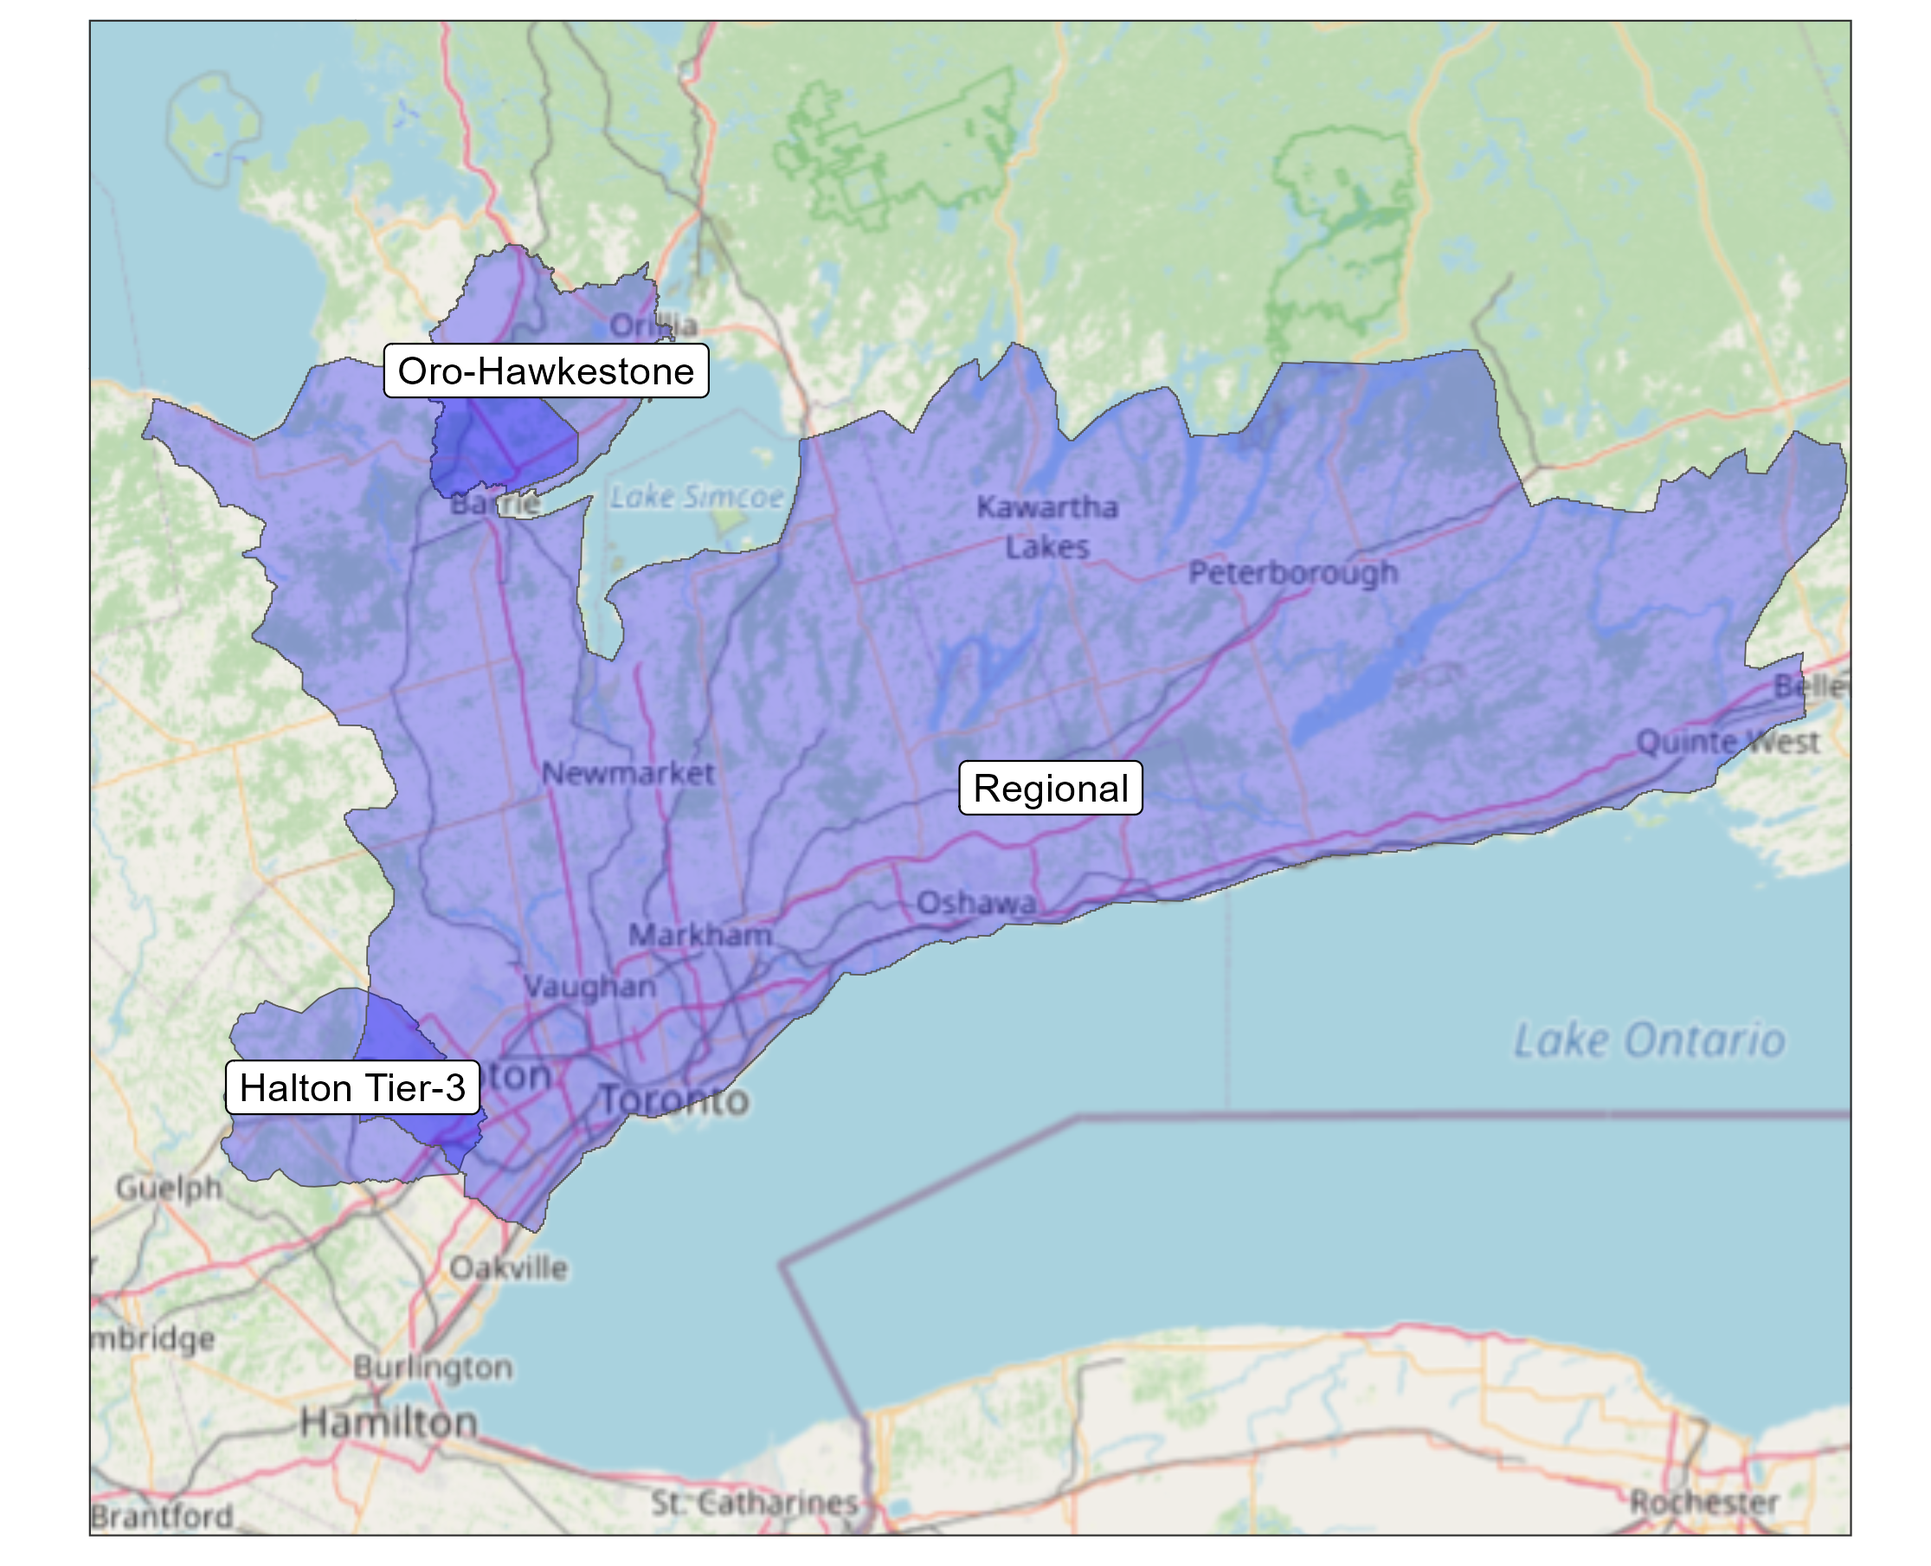
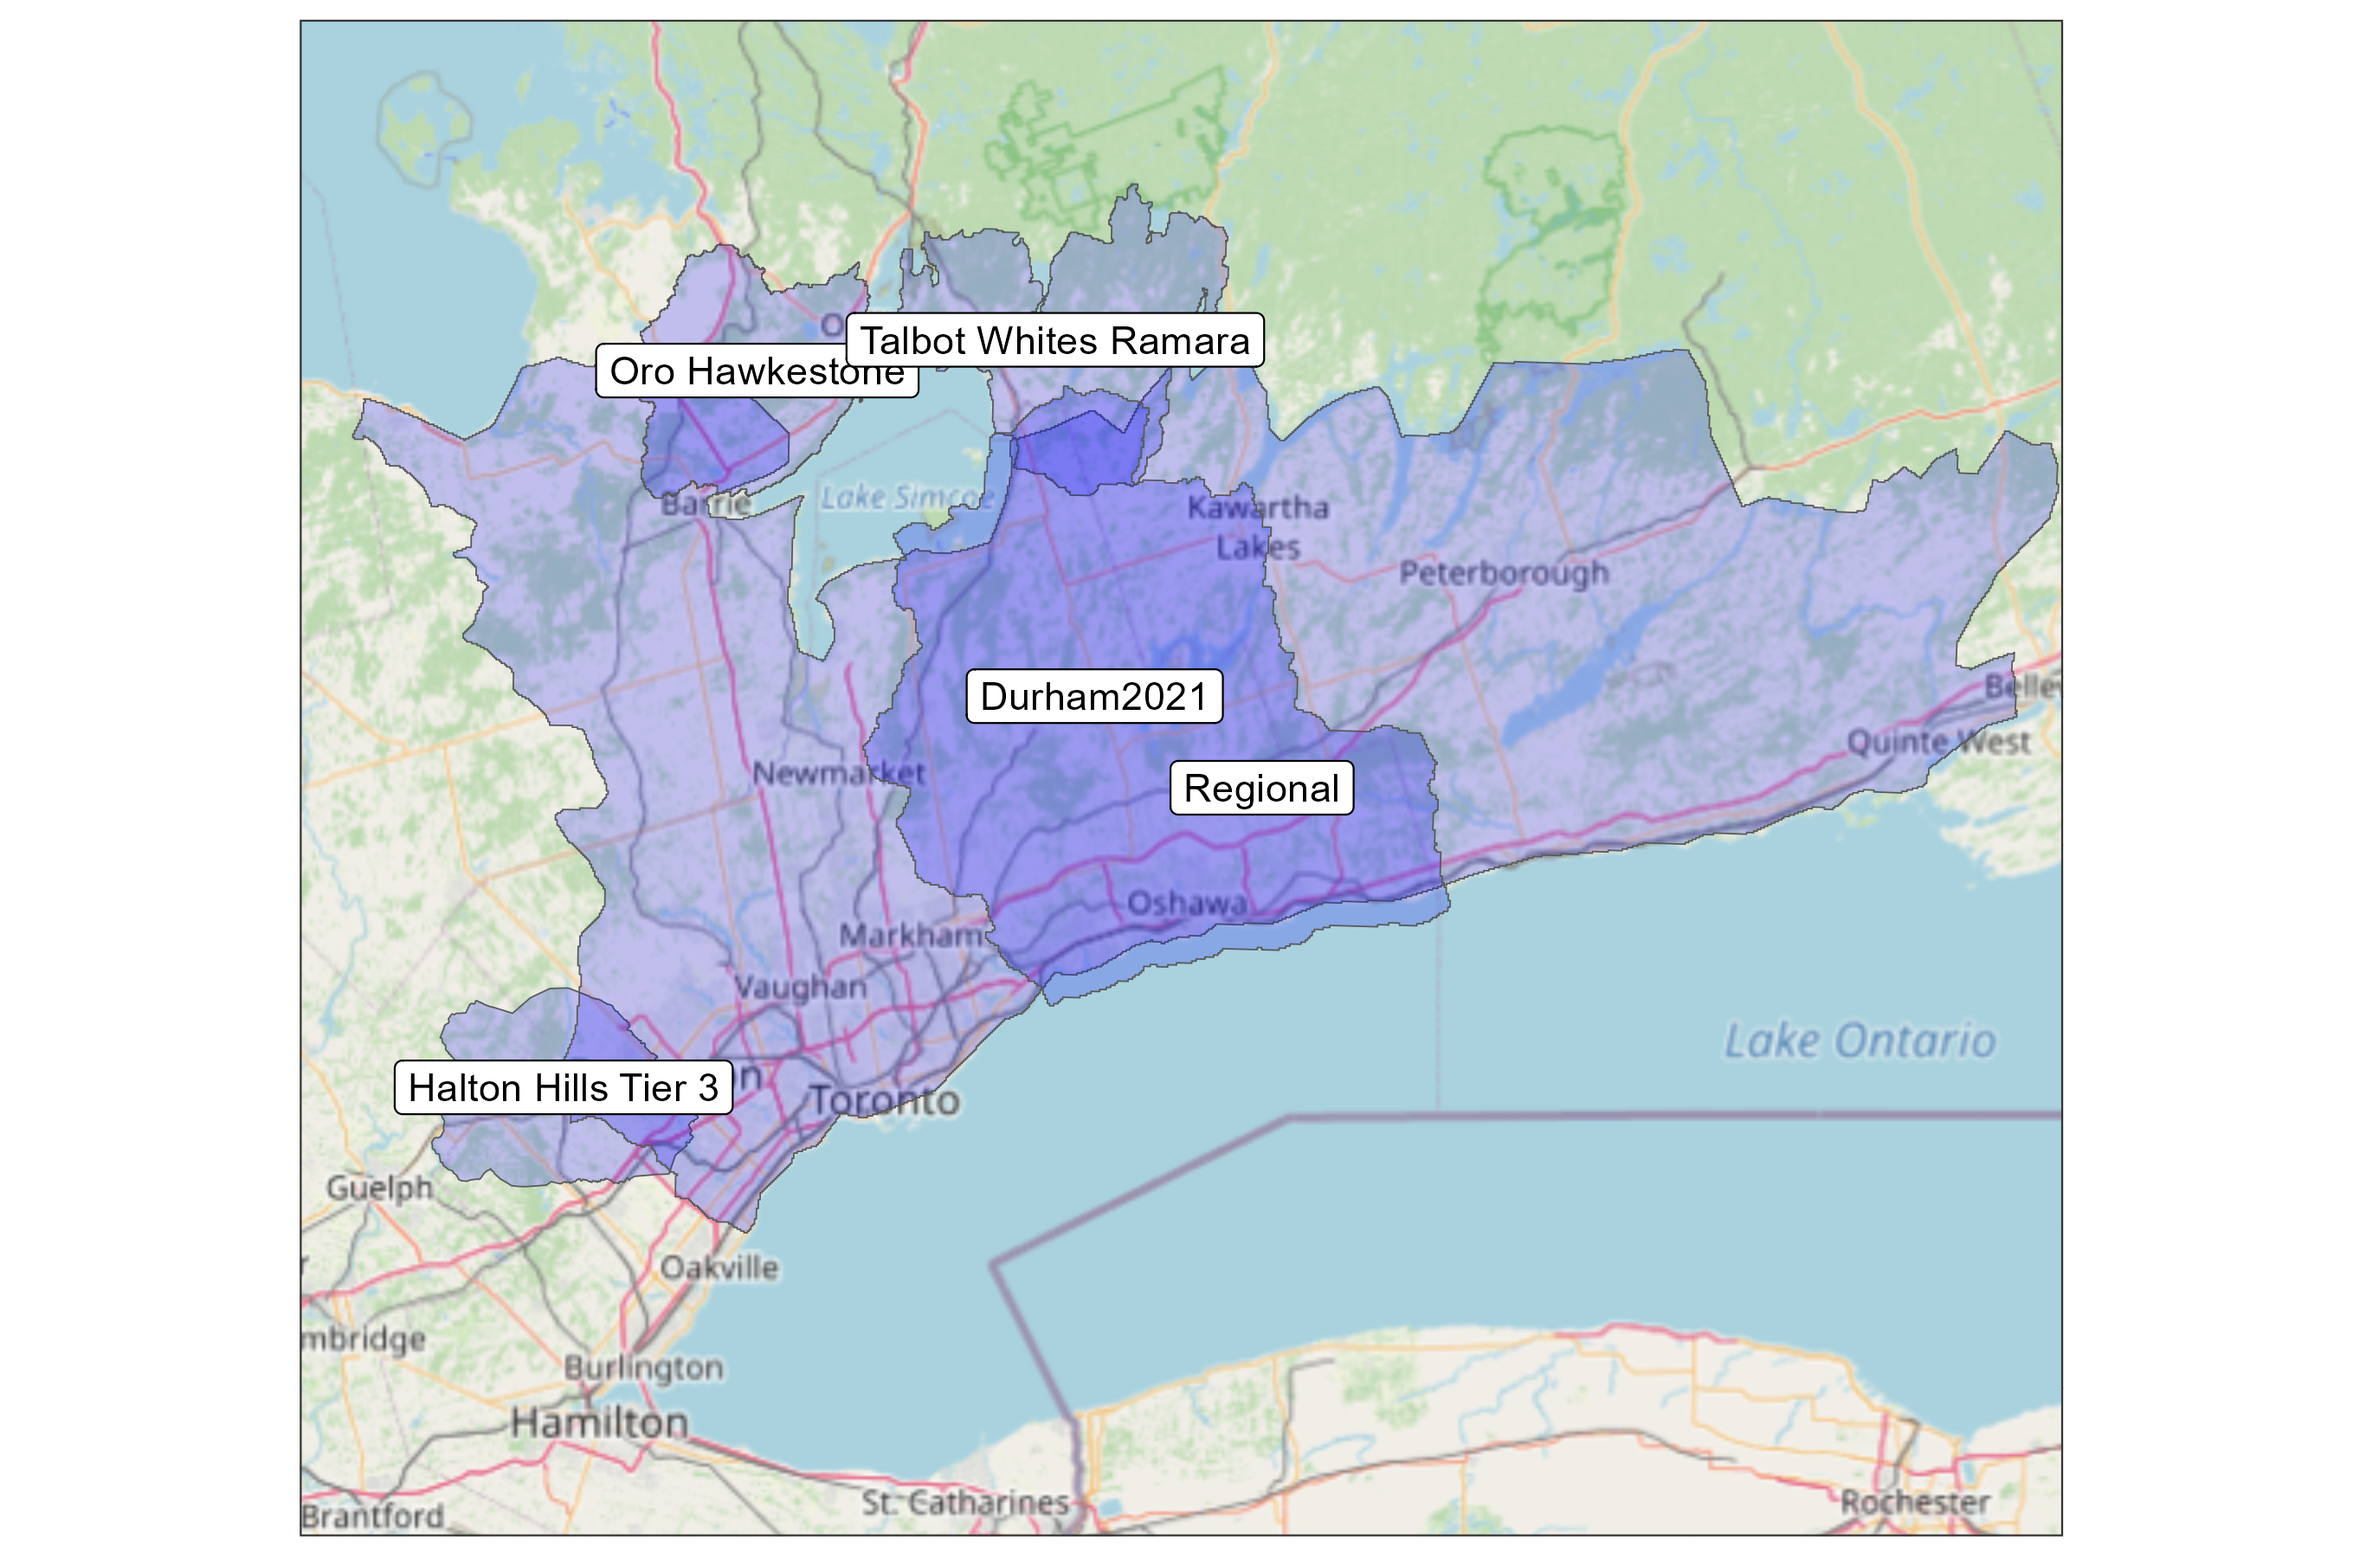
updated particle tracking

diff --git a/modelling/particleTracking/index.md b/modelling/particleTracking/index.md
@@ -35,7 +35,7 @@ As of the date of this snapshot (listed below), the particle tracking from the f
 <!-- 1. South Halton (MODFLOW) -->
 <!-- 1. CVC (FEFLOW) -->
 <!-- 1. NVCA-SSEA (FEFLOW) -->
-<!-- 1. Ramara Whites Talbot (MODFLOW) -->
+1. Ramara Whites Talbot (MODFLOW)
 <!-- 1. York Tier-3 (MODFLOW) -->
 1. Durham 2021 (MODFLOW)
 
@@ -134,11 +134,13 @@ The following figures show the results of a cell being clicked by a user on our 
 
 ![](img/clicked-location1.png)
 
-And zooming in around the particle tracks:
+And zooming in around the "clicked" particle tracks:
 
 ![](img/clicked-location2.png)
 
 Now, even though there are only 5 centroidal pathlines originating at this clicked location/cell (one for every layer), many (of the 1.3M) pathlines originating from cells not clicked appear to cross the clicked cell; the particle tracking API captures all pathlines that cross this clicked cell. This gives a nice way to see a number of pathlines that could originate from a particular cell without explicitly computing them.
+
+The following figure is an interactive 3D illustration of the above particle track example. Use your mouse to pan/rotate the tracks to visualize them at depth. Also shown are the 5 colour coded model cells (one per layer) that are selected by the API from which any intersecting pathlines are shown.
 
 <iframe src="https://golang.oakridgeswater.ca/pages/443405-3D.html" width="100%" height="700" scrolling="no" allowfullscreen></iframe>
 
@@ -170,7 +172,7 @@ There are three ways these data are compressed:
 
 <iframe src="https://owrc.shinyapps.io/ptrack/" width="100%" height="500" scrolling="no" allowfullscreen></iframe>
 
-[*open in to view in separate tab*](https://owrc.shinyapps.io/ptrack/)
+*3D particle pathlines drawn in [plotly](https://plotly.com/). Moving mouse while holding left button rotates; right button pans and center button zooms. [*To open and view in separate tab, click here*](https://owrc.shinyapps.io/ptrack/).*
 
 <br>
 

diff --git a/index.md b/index.md
@@ -339,6 +339,9 @@ The ORMGP particle tracking tool shows both the forward or backward particle tra
 
 * More info on 3D [**particle tracking** of the groundwater flow system and the methodology used in our web tool](/interpolants/modelling/particleTracking/).
 
+![](fig/particles.png)
+
+<br>
 
 ## Regional **Water Budget**, Long-term and Continuous
 * Fine-resolution (2,500 m²) [**Water Budgeting** using a  regionally-distributed runoff-recharge model](/interpolants/modelling/waterbudgetmodel.html) for Long-term (>20 years) continuos 6-hourly hydrological modelling of the ORMGP jurisdiction.
